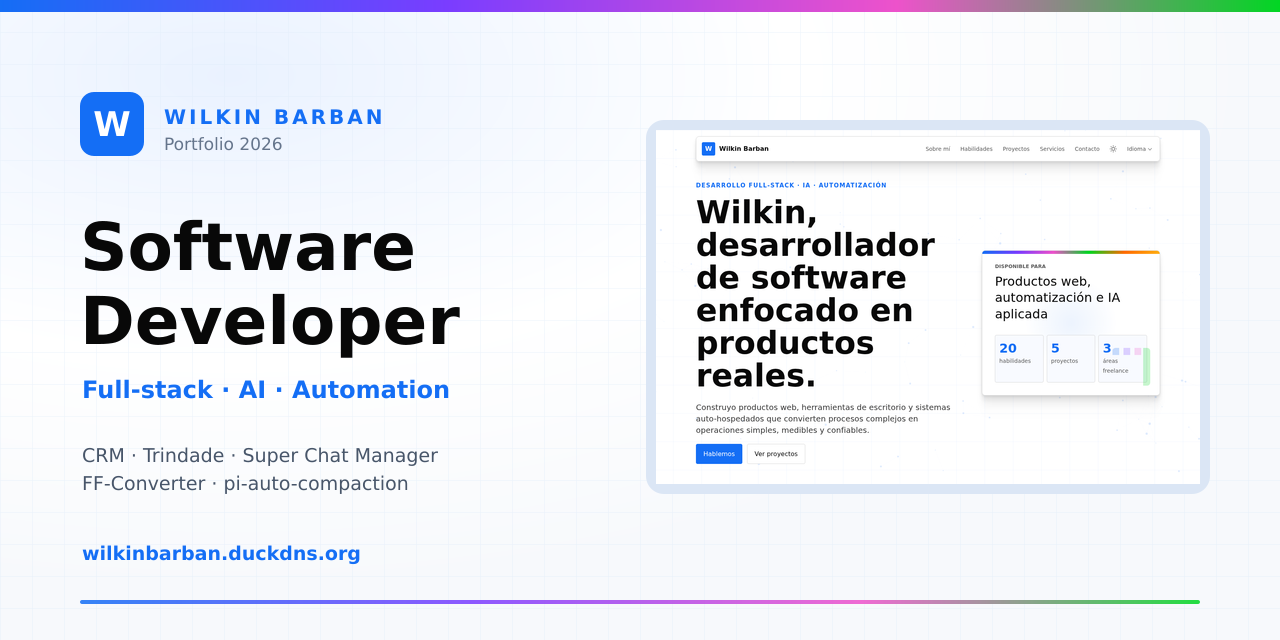
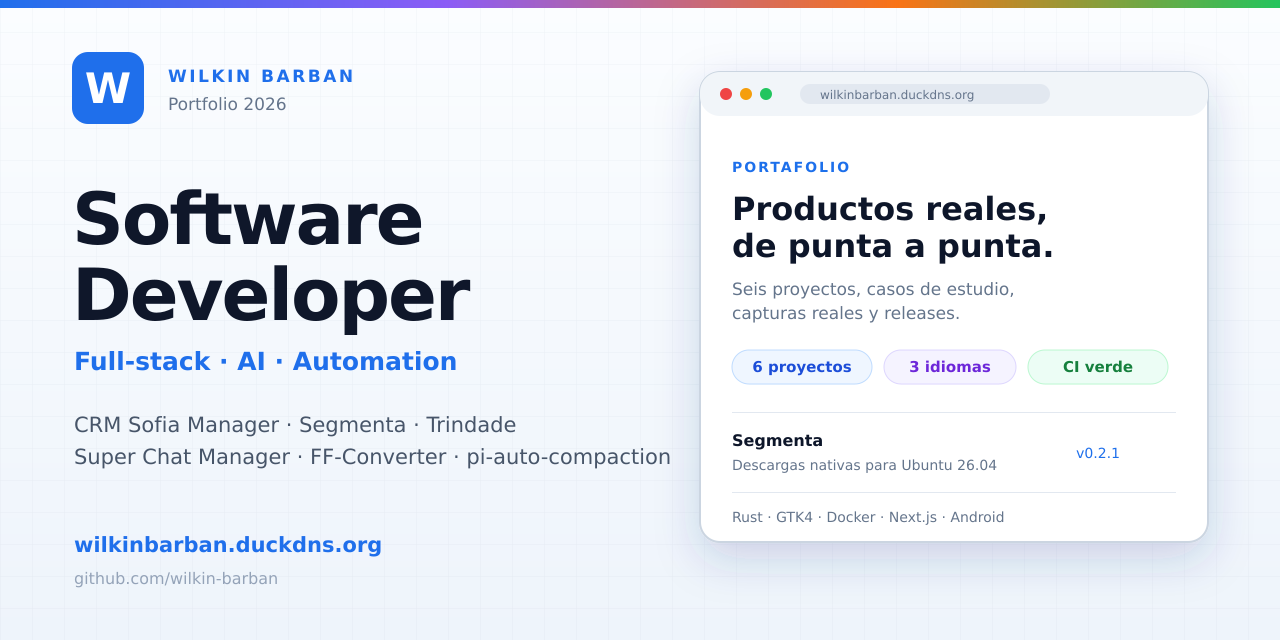
feat(portfolio): add Segmenta and align with the GitHub profile

diff --git a/tests/data.test.js b/tests/data.test.js
@@ -23,7 +23,7 @@ test("Verificar integridad de diccionarios de idioma (es, en, pt)", () => {
     });
 
     assert.ok(Array.isArray(json.projects?.projects), `projects.projects debe ser un array en ${lang}.json`);
-    assert.equal(json.projects.projects.length, 5, `Debe haber 5 proyectos configurados en ${lang}.json`);
+    assert.equal(json.projects.projects.length, 6, `Debe haber 6 proyectos configurados en ${lang}.json`);
   });
 });
 
@@ -33,7 +33,7 @@ test("Verificar archivo de metadatos projects.json", () => {
 
   const projects = JSON.parse(fs.readFileSync(filePath, "utf8"));
   assert.ok(Array.isArray(projects), "projects.json debe ser un array");
-  assert.equal(projects.length, 5, "Deben existir 5 proyectos");
+  assert.equal(projects.length, 6, "Deben existir 6 proyectos");
 
   projects.forEach((proj) => {
     assert.ok(proj.id, "Cada proyecto debe tener un id");
@@ -60,4 +60,30 @@ test("Verificar archivo de configuracion config.json", () => {
   assert.ok(config.supportTargets?.wise, "supportTargets debe contener wise");
   assert.ok(config.supportTargets?.pix, "supportTargets debe contener pix");
   assert.equal(config.supportTargets.pix, "wilkin.barban@gmail.com");
+});
+
+test("Segmenta está alineado en metadatos y capturas", () => {
+  const projects = JSON.parse(fs.readFileSync(path.join(publicDir, "data", "projects.json"), "utf8"));
+  const segmenta = projects.find((project) => project.id === "segmenta");
+
+  assert.ok(segmenta, "Segmenta debe existir en projects.json");
+  assert.equal(segmenta.icon, "SG");
+  assert.equal(segmenta.folder, "Segmenta");
+  assert.equal(segmenta.release, "https://github.com/wilkin-barban/Segmenta/releases/latest");
+
+  ["captura_1.png", "captura_2.png", "captura_3.png"].forEach((file) => {
+    assert.ok(fs.existsSync(path.join(publicDir, "Segmenta", file)), `Debe existir public/Segmenta/${file}`);
+  });
+});
+
+test("Segmenta está presente en los tres idiomas", () => {
+  ["es", "en", "pt"].forEach((lang) => {
+    const json = JSON.parse(fs.readFileSync(path.join(publicDir, "locales", `${lang}.json`), "utf8"));
+    const segmenta = json.projects.projects.find((project) => project.name === "Segmenta");
+
+    assert.ok(segmenta, `Segmenta debe existir en ${lang}.json`);
+    assert.ok(segmenta.subtitle, `Segmenta debe tener subtítulo en ${lang}.json`);
+    assert.ok(segmenta.caseStudy?.sections?.length >= 3, `Segmenta debe tener caso de estudio en ${lang}.json`);
+    assert.ok(json.skills.list.includes("Rust"), `Rust debe estar en habilidades de ${lang}.json`);
+  });
 });

diff --git a/public/index.html b/public/index.html
@@ -12,18 +12,18 @@
     content="Productos web, IA, automatización y herramientas de escritorio.">
   <meta property="og:type" content="website">
   <meta property="og:url" content="https://wilkinbarban.duckdns.org/">
-  <meta property="og:image" content="https://wilkinbarban.duckdns.org/assets/og-cover.png">
+  <meta property="og:image" content="https://wilkinbarban.duckdns.org/assets/og-cover.png?v=20261114-1">
   <meta property="og:image:width" content="1280">
   <meta property="og:image:height" content="640">
   <meta name="twitter:card" content="summary_large_image">
   <meta name="twitter:title" content="Wilkin Barban | Desarrollador de software">
   <meta name="twitter:description" content="Productos web, IA, automatización y herramientas de escritorio.">
-  <meta name="twitter:image" content="https://wilkinbarban.duckdns.org/assets/og-cover.png">
+  <meta name="twitter:image" content="https://wilkinbarban.duckdns.org/assets/og-cover.png?v=20261114-1">
   <title>Wilkin Barban | Desarrollador de software</title>
   <link rel="icon" href="/assets/favicon.svg" type="image/svg+xml">
   <link rel="preload" href="/css/webflow.css?v=20260427-1" as="style">
   <link rel="stylesheet" href="/css/webflow.css?v=20260427-1">
-  <script type="module" src="/js/app.js?v=20261109-4"></script>
+  <script type="module" src="/js/app.js?v=20261114-1"></script>
 </head>
 
 <body>
@@ -96,7 +96,7 @@
             <span data-i18n="hero.stats.skills">habilidades</span>
           </div>
           <div>
-            <strong data-counter="5">0</strong>
+            <strong data-counter="6">0</strong>
             <span data-i18n="hero.stats.projects">proyectos</span>
           </div>
           <div>

diff --git a/public/js/app.js b/public/js/app.js
@@ -129,8 +129,8 @@ const boot = async () => {
   // Carga de configuración y metadatos
   try {
     const [metaRes, configRes] = await Promise.all([
-      fetch("/data/projects.json?v=20261109-4"),
-      fetch("/data/config.json?v=20261109-4")
+      fetch("/data/projects.json?v=20261114-1"),
+      fetch("/data/config.json?v=20261114-1")
     ]);
     if (metaRes.ok) projectMeta = await metaRes.json();
     if (configRes.ok) appConfig = await configRes.json();

diff --git a/public/js/modules/i18n.js b/public/js/modules/i18n.js
@@ -10,7 +10,7 @@ export const loadLocale = async (lang) => {
   }
 
   try {
-    const response = await fetch(`/locales/${lang}.json?v=20261109-3`);
+    const response = await fetch(`/locales/${lang}.json?v=20261114-1`);
     if (!response.ok) throw new Error(`No se pudo cargar /locales/${lang}.json`);
     const data = await response.json();
     localeCache.set(lang, data);

diff --git a/public/js/modules/projects.js b/public/js/modules/projects.js
@@ -4,7 +4,7 @@
 import { createElement, writeToClipboard } from "./utils.js";
 import { fetchGallery, openGalleryViewer } from "./gallery.js";
 
-const assetVersion = "20261109-4";
+const assetVersion = "20261114-1";
 
 export const renderSkills = (locale) => {
   const skills = document.querySelector("[data-skills]");

diff --git a/README.md b/README.md
@@ -12,6 +12,7 @@ Portafolio profesional de **Wilkin Barban**, construido con **Node.js, Express, 
 | Proyecto | Qué es | Enlaces |
 |---|---|---|
 | **CRM Sofia Manager** | CRM omnichannel con IA, pedidos, stock, pagos y RAG para una operación de asados. Next.js, Supabase y Docker. | [Repo](https://github.com/wilkin-barban/CRM_Sofia_Manager) · [Demo](https://crmsofiamanager.duckdns.org) · [Release](https://github.com/wilkin-barban/CRM_Sofia_Manager/releases/latest) |
+| **Segmenta** | Gestor de descargas nativo para Ubuntu 26.04: HTTP segmentado, torrents, YouTube y HLS/DASH; daemon Rust, GUI GTK4 y extensión de navegador. | [Repo](https://github.com/wilkin-barban/Segmenta) · [Release](https://github.com/wilkin-barban/Segmenta/releases/latest) |
 | **Trindade Massas** | Operaciones de planta en web y Android: producción, higiene, temperatura, cargas, stock y ERP Aero32. | [Repo](https://github.com/wilkin-barban/Trindade) · [Demo](https://trindademasas.duckdns.org) · [Release](https://github.com/wilkin-barban/Trindade/releases/latest) |
 | **Super Chat Manager** | Chat en vivo auto-hospedado con widget, Telegram, panel, RAG y Docker. | [Repo](https://github.com/wilkin-barban/Super-Chat-Manager) · [Release](https://github.com/wilkin-barban/Super-Chat-Manager/releases/latest) |
 | **FF-Converter** | Conversor FFmpeg de escritorio para Windows y Linux, por lotes y con perfiles. | [Repo](https://github.com/wilkin-barban/FF-Converter) · [Release](https://github.com/wilkin-barban/FF-Converter/releases/latest) |
@@ -44,7 +45,7 @@ Portafolio profesional de **Wilkin Barban**, construido con **Node.js, Express, 
 ├── docker-compose.yml
 ├── Dockerfile
 ├── docs/
-│   ├── releases/v1.1.4.md
+│   ├── releases/v1.1.5.md
 │   └── operations/
 └── nginx/
 ```
@@ -100,7 +101,7 @@ La suite cubre integridad de idiomas, metadatos, configuración, seguridad HTTP,
 
 ## Release
 
-La versión actual es **v1.1.4**. Las notas están en [`docs/releases/v1.1.4.md`](docs/releases/v1.1.4.md) y el historial en [`CHANGELOG.md`](CHANGELOG.md).
+La versión actual es **v1.1.5**. Las notas están en [`docs/releases/v1.1.5.md`](docs/releases/v1.1.5.md) y el historial en [`CHANGELOG.md`](CHANGELOG.md).
 
 ## Contacto
 

diff --git a/CHANGELOG.md b/CHANGELOG.md
@@ -4,6 +4,30 @@ Todos los cambios relevantes de este proyecto se documentan en este archivo.
 
 El formato sigue [Keep a Changelog](https://keepachangelog.com/es-ES/1.1.0/) y el proyecto usa versionado semántico.
 
+## [1.1.5] - 2026-11-14
+
+### Agregado
+
+- **Segmenta** como sexto proyecto: gestor de descargas nativo para Ubuntu 26.04 con HTTP
+  segmentado, torrents, YouTube y HLS/DASH; daemon Rust, CLI, GUI GTK4/Libadwaita y extensión de
+  navegador.
+- Tres capturas reales en `public/Segmenta/`: lista principal, progreso de descarga y preferencias.
+- Caso de estudio ES/EN/PT con problema, solución, resultado, métodos de instalación, pasos y
+  comando de compilación.
+- **Rust** y **GTK4 / Libadwaita** en el stack del portafolio y en las habilidades compartidas.
+
+### Cambiado
+
+- Contador de proyectos de 5 a 6 y metadatos de `projects.json` alineados con el perfil de GitHub.
+- `assetVersion` actualizado a `20261114-1` para invalidar caché de datos, locales y galerías.
+- README y estructura actualizados a `docs/releases/v1.1.5.md`.
+
+### Verificación
+
+- `npm run check` y `npm test` (26/26 tests OK).
+- Las tres capturas de Segmenta existen y la API de galería autoriza la carpeta.
+- CI y build Docker en verde.
+
 ## [1.1.4] - 2026-11-08
 
 ### Cambiado
@@ -93,6 +117,7 @@ El formato sigue [Keep a Changelog](https://keepachangelog.com/es-ES/1.1.0/) y e
 - Galerías API validadas para los seis proyectos.
 - Build Docker y despliegue en `portfolio-web` verificados.
 
+[1.1.5]: https://github.com/wilkin-barban/Portafolio/releases/tag/v1.1.5
 [1.1.4]: https://github.com/wilkin-barban/Portafolio/releases/tag/v1.1.4
 [1.1.3]: https://github.com/wilkin-barban/Portafolio/releases/tag/v1.1.3
 [1.1.2]: https://github.com/wilkin-barban/Portafolio/releases/tag/v1.1.2

diff --git a/docs/releases/v1.1.5.md b/docs/releases/v1.1.5.md
@@ -1,0 +1,28 @@
+# Portafolio v1.1.5 — Segmenta
+
+El portafolio incorpora **Segmenta**, el gestor de descargas nativo para Ubuntu 26.04, y alinea su
+contenido con el README del perfil de GitHub.
+
+## Agregado
+
+- Sexto proyecto: **Segmenta**.
+- Tres capturas reales en `public/Segmenta/`: lista principal, progreso y preferencias.
+- Casos de estudio ES/EN/PT con problema, solución, resultado, instalación, pasos y comando.
+- **Rust** y **GTK4 / Libadwaita** en habilidades y stack compartido.
+
+## Cambiado
+
+- Contador de proyectos de 5 a 6.
+- `projects.json`, locales ES/EN/PT y README alineados.
+- `assetVersion` a `20261114-1` en HTML, datos, locales y galerías.
+- Versión del paquete a `1.1.5`.
+
+## Verificación
+
+```bash
+npm run check
+npm test
+```
+
+Resultado: **26/26 tests OK**. Las tres capturas de `public/Segmenta/` existen y la API de galería
+autoriza la carpeta. CI y build Docker quedan delegados al workflow del repositorio.
